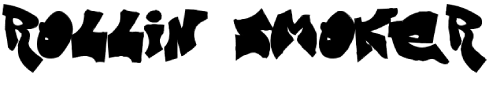
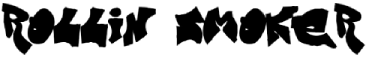
MCP Added

diff --git a/pages/partners.html b/pages/partners.html
@@ -63,13 +63,13 @@
       </div>
       <div class="d-md-flex justify-content-center align-items-center">
         <div class="">
-          <img class="img-fluid" src="../img/RollinSmoker.png">
+          <img class="img-fluid" src="../img/RollinSmoker_sm.png">
         </div>
-        <div class="w-75">
+        <div class="">
           <img class="img-fluid" src="../img/mh2.png">
         </div>
         <div class="">
-          <img class="img-fluid" src="../img/Tommy2.png">
+          <img class="img-fluid" src="../img/Tommy2_sm.png">
         </div>
       </div>
     </div>
